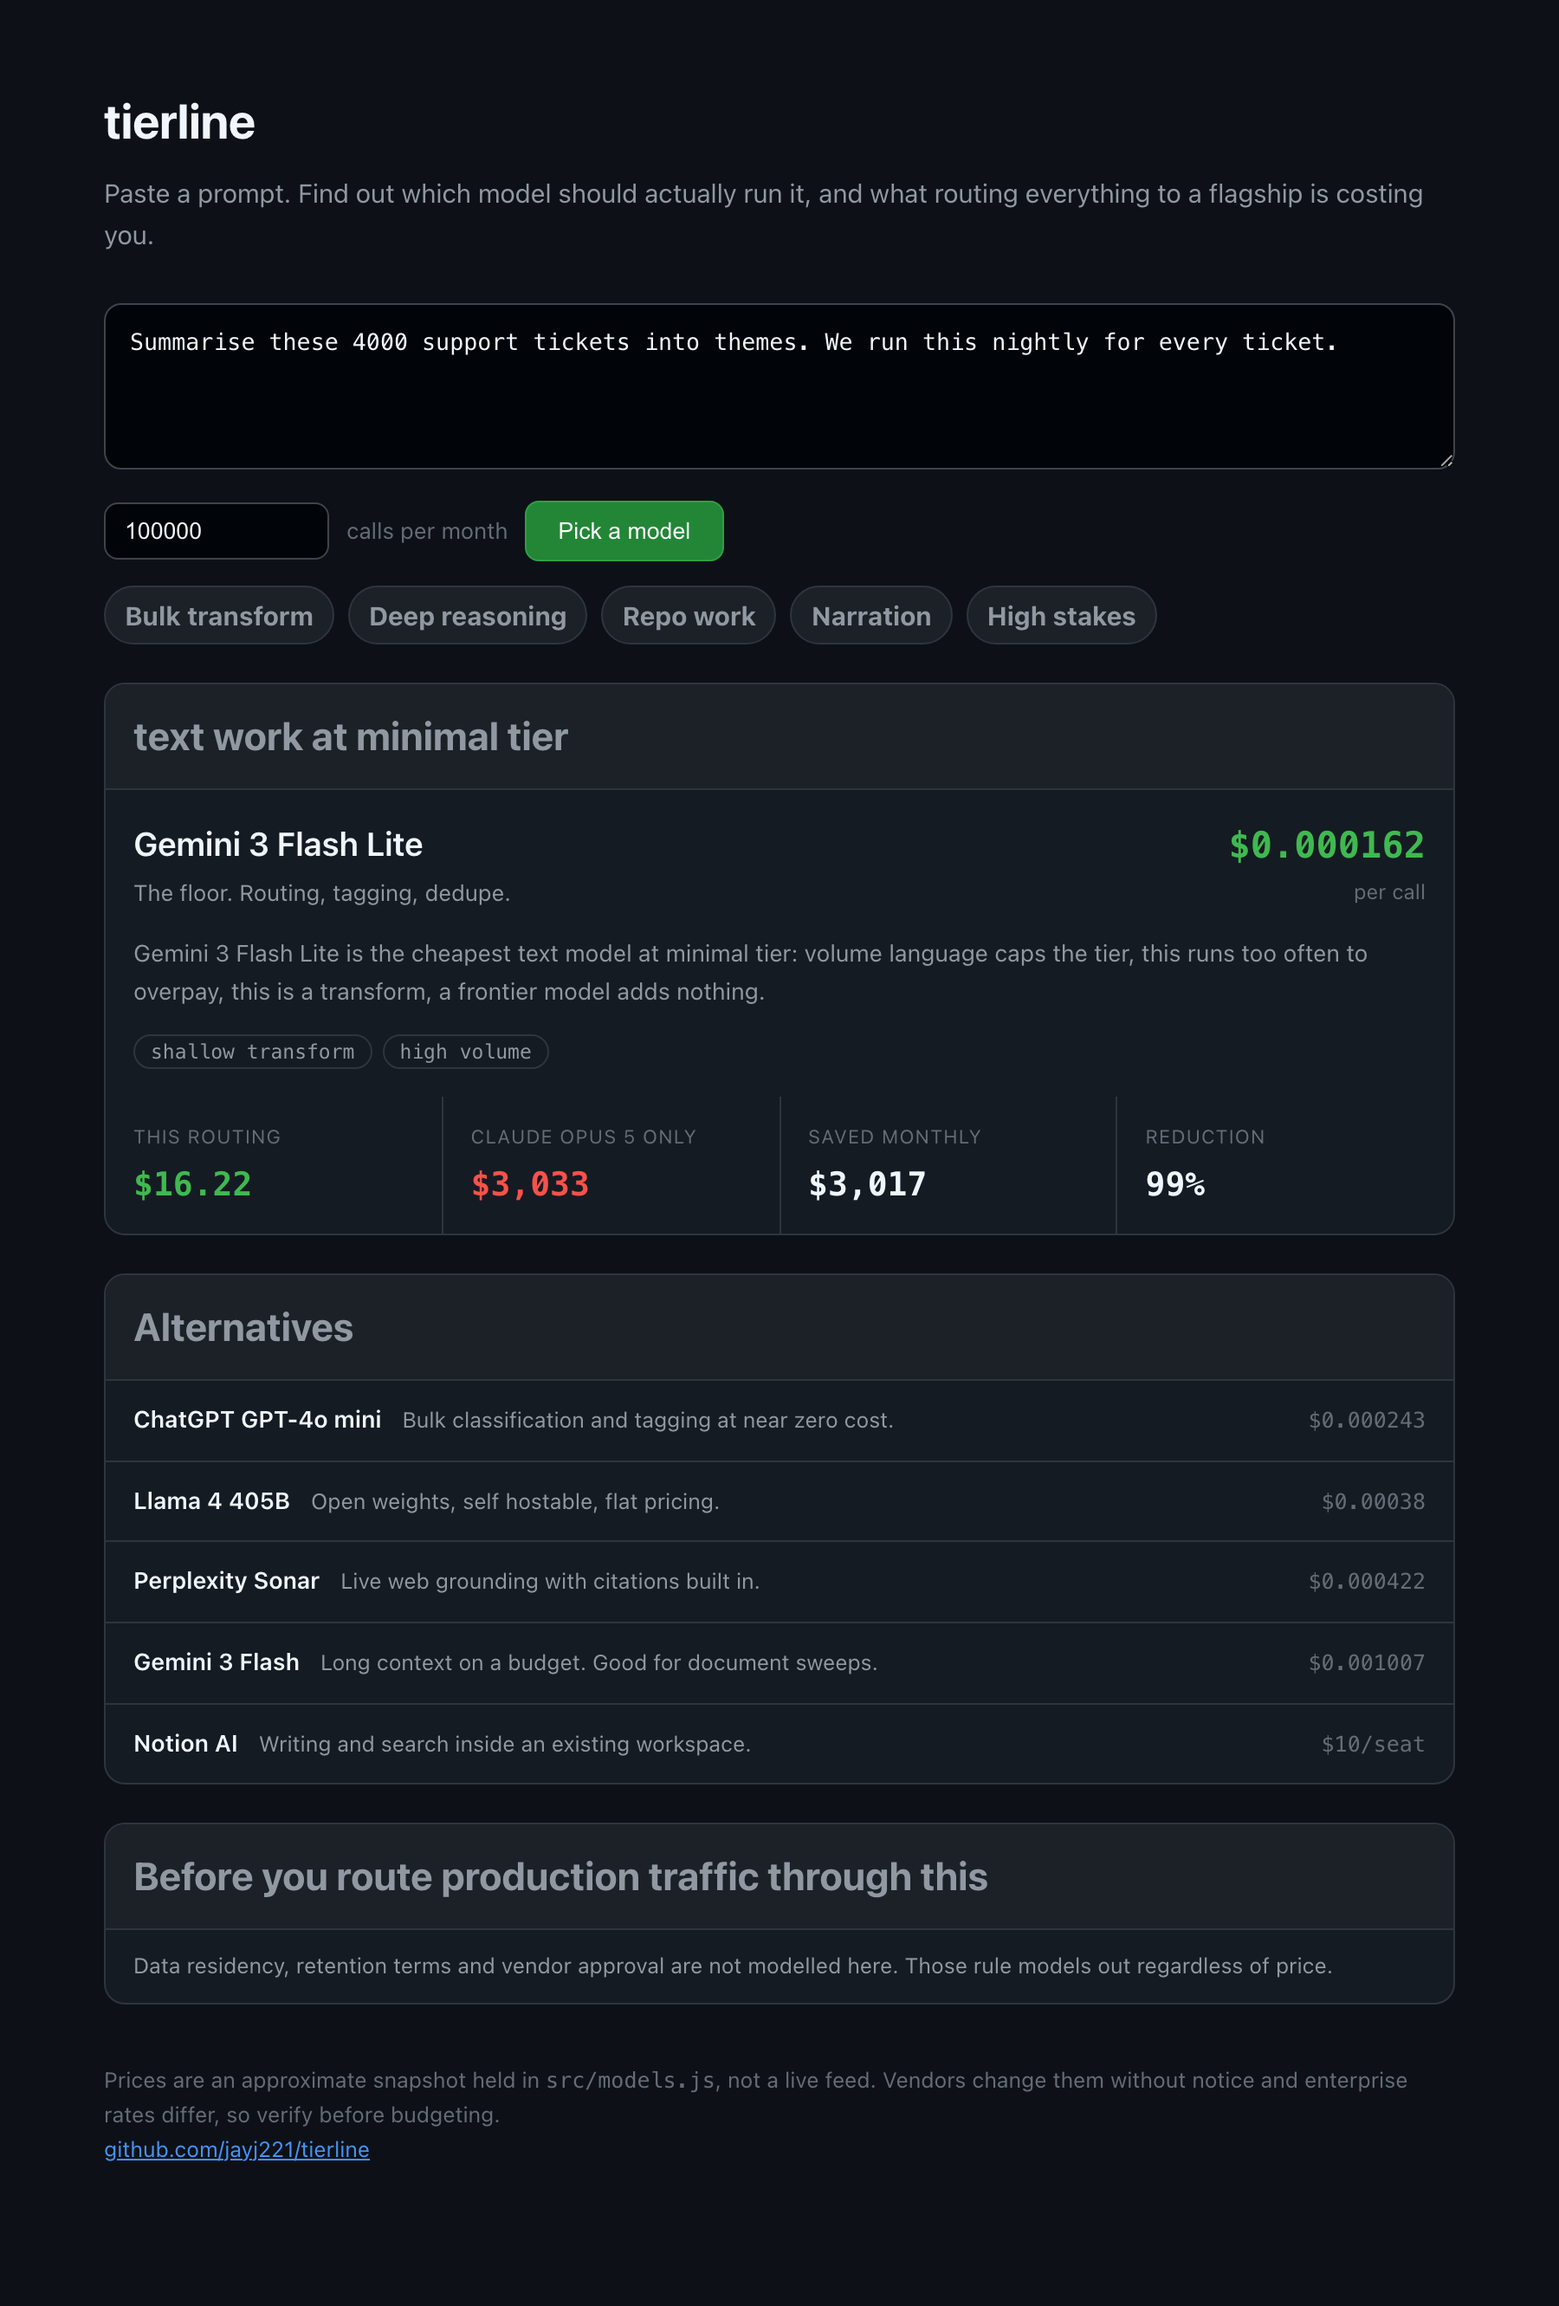
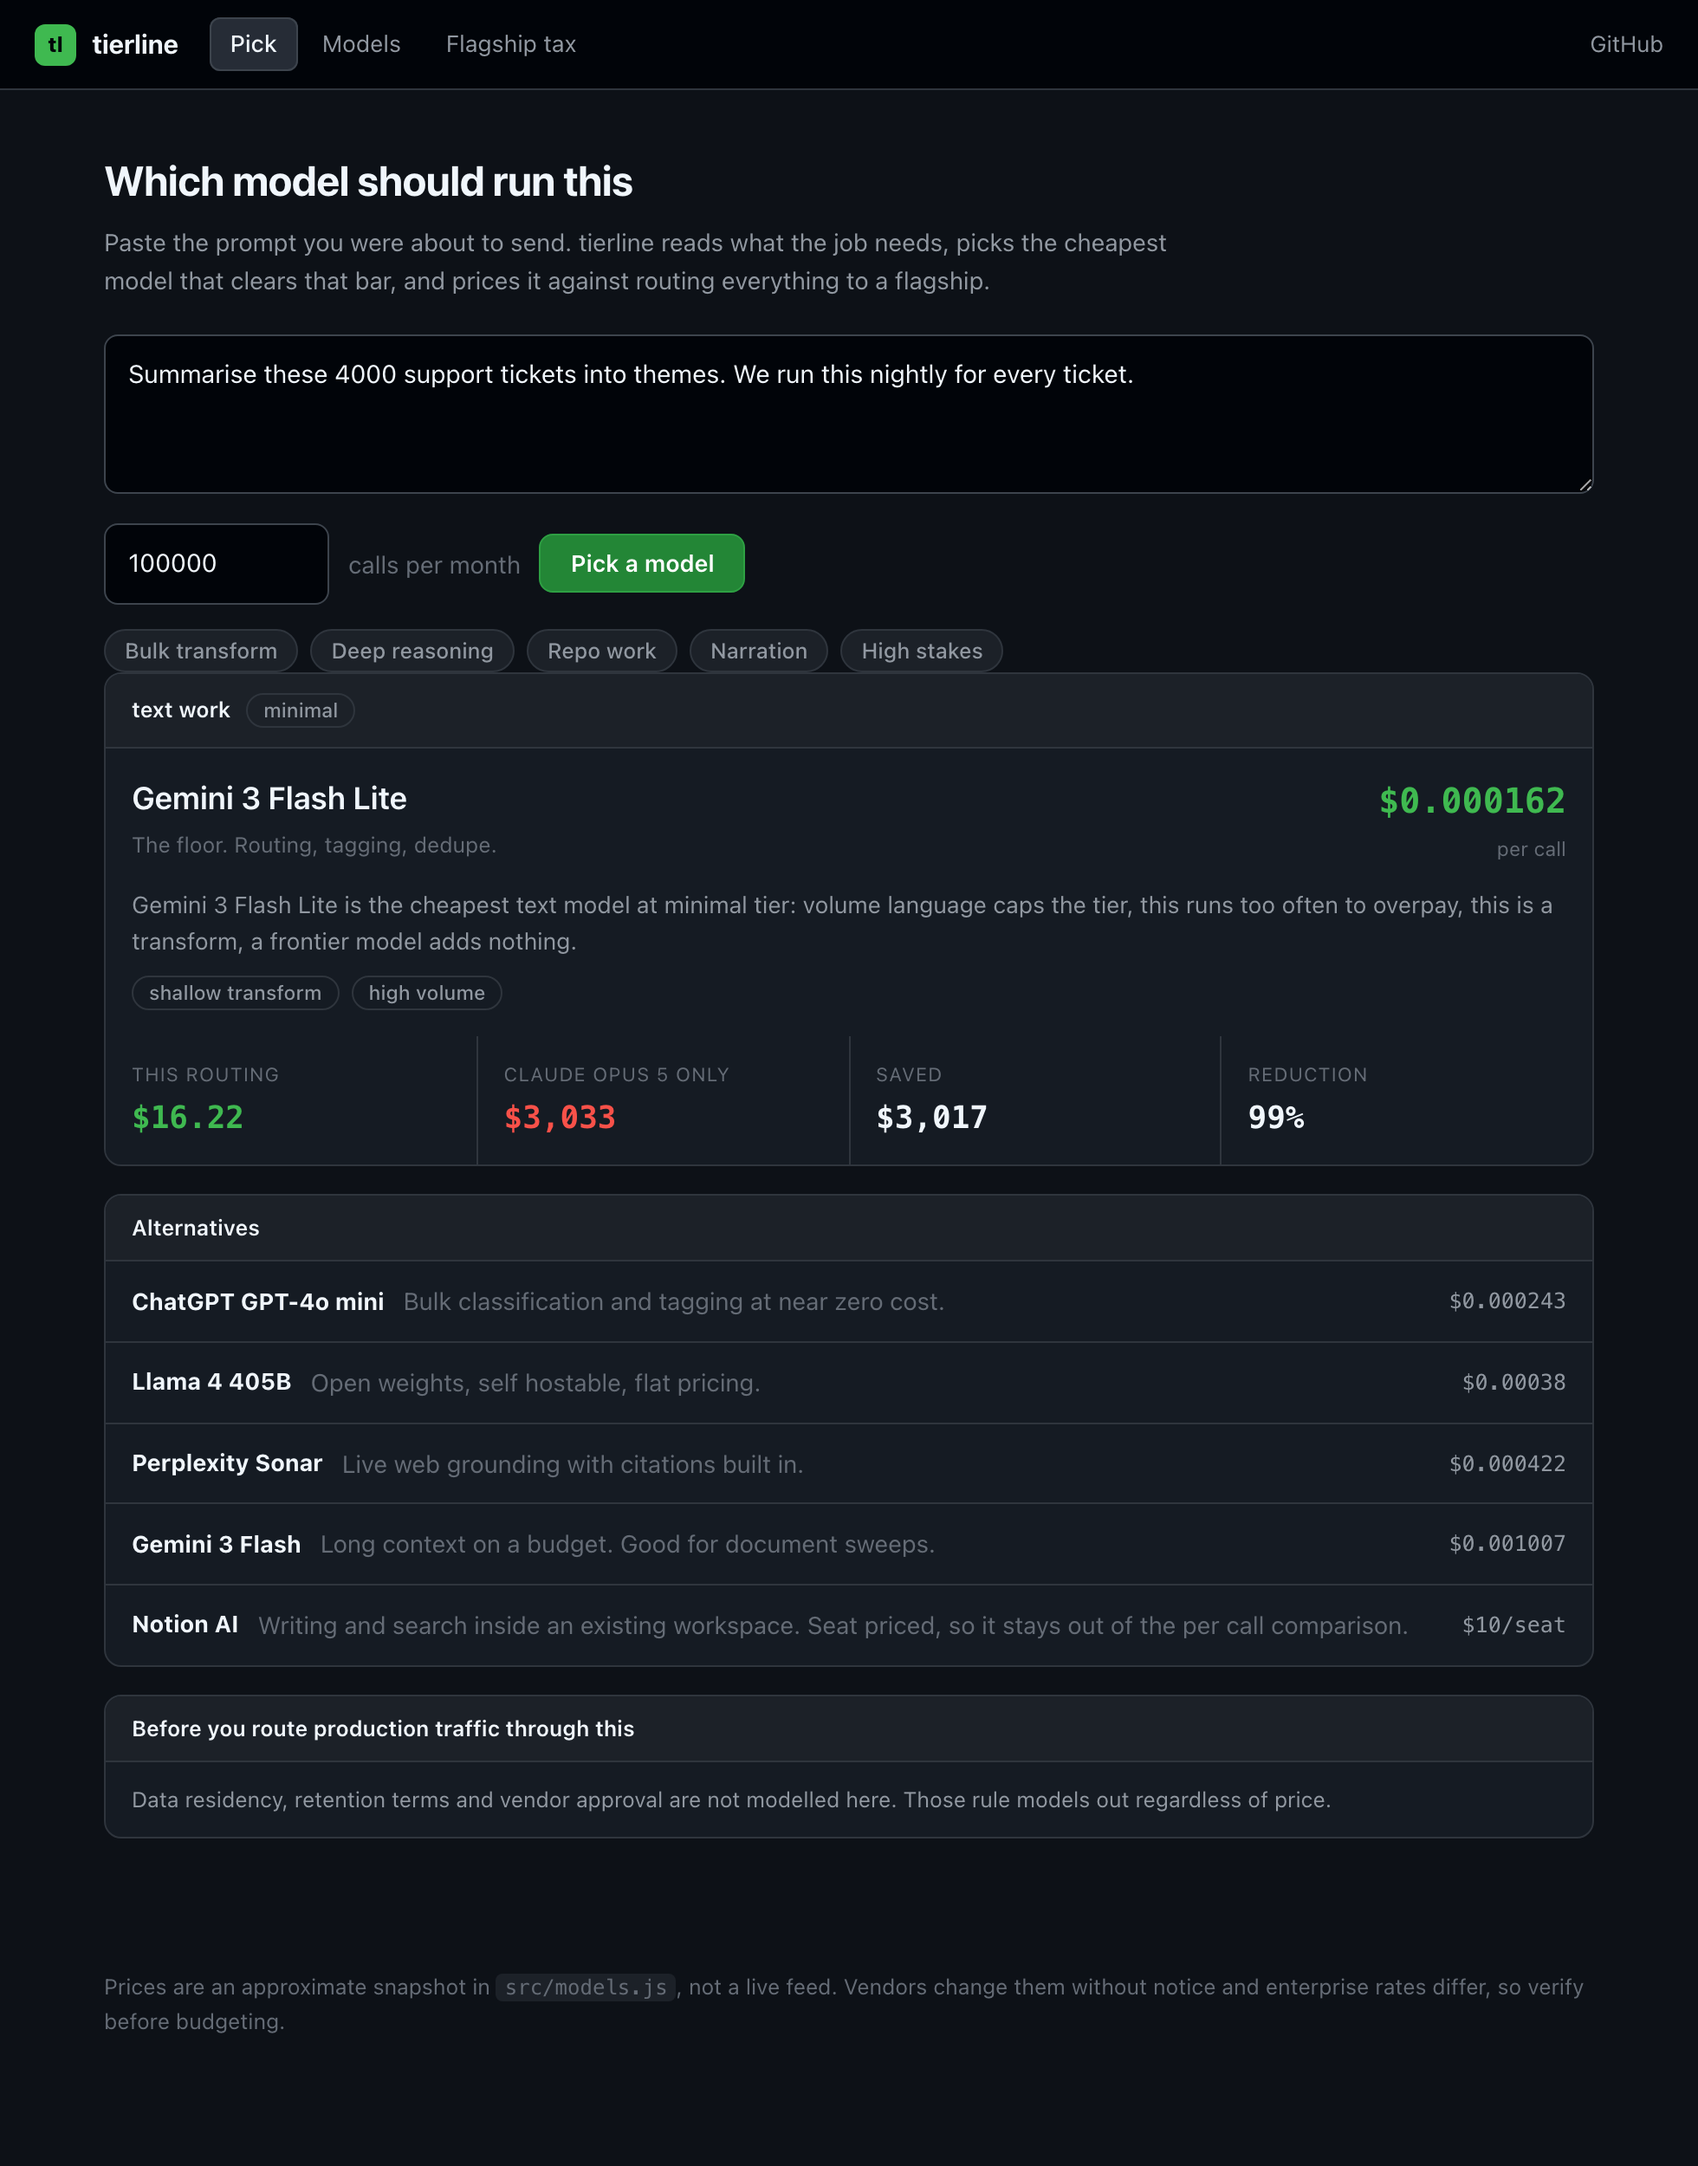
Add the browsable UI, catalogue, model pages and rankings
Three hash routed pages sharing one header, following the shape
OpenRouter uses because their information architecture is good and worth
borrowing.

Pick is the prompt box that was already there. Models is the catalogue
with search, modality and tier filters, each row linking to a detail
page that shows pricing, reach, the flagship tax for that model, and
anything cheaper that still clears the same tier. Flagship tax is the
rankings page.

The metric is where it stops being a copy. OpenRouter ranks by tokens
processed, which measures adoption. This ranks by what standardising on
a model costs against routing per task, which is the number a finance
team is actually asking for.

README carries the accuracy figures now, including the two prompts the
classifier still disagrees with and why they were left alone.

diff --git a/README.md b/README.md
@@ -24,7 +24,7 @@ $ npx tierline "summarise these 4000 support tickets into themes, we run this ni
 ```
 
 <div align="center">
-  <img src="docs/screenshot.png" alt="tierline picking a model for a bulk summarisation job" width="720">
+  <img src="docs/screenshot.png" alt="tierline picking a model for a bulk summarisation job" width="760">
 </div>
 
 Most teams pick one frontier model and send everything to it. That is the single most expensive habit in an AI budget, because the majority of production prompts are transforms that a model costing a hundredth as much would handle identically.
@@ -37,7 +37,7 @@ tierline reads the prompt, works out what the job actually needs, and names the 
 npx tierline "your prompt here"
 ```
 
-Or clone it and run the web UI:
+Or clone it for the web UI, which has the catalogue and the rankings:
 
 ```bash
 git clone https://github.com/jayj221/tierline.git
@@ -47,6 +47,32 @@ node server.js
 ```
 
 No dependencies, no build step, no API key. It never calls a model, it only decides which one you should call.
+
+## Flagship tax
+
+Adoption rankings tell you what everyone else is buying. This tells you what buying it costs.
+
+If you standardised on one model across the 39 task corpus, falling back where it cannot reach, here is the multiple of the optimal bill you would pay:
+
+| Model | Blended cost | Covers |
+| :--- | ---: | ---: |
+| Claude Opus 5 | 6.96x | 69% |
+| GPT-5.2 | 4.41x | 69% |
+| Claude Sonnet 5 | 1.32x | 51% |
+| Gemini 3 Pro | 1.20x | 74% |
+| DeepSeek V4 | 1.00x | 51% |
+
+Gemini 3 Pro reaches more of the corpus than Claude Opus 5 and costs a sixth as much to standardise on. That gap is the entire product.
+
+<div align="center">
+  <img src="docs/rankings.png" alt="flagship tax rankings" width="760">
+</div>
+
+## Browse the catalogue
+
+<div align="center">
+  <img src="docs/models.png" alt="model catalogue with modality and tier filters" width="760">
+</div>
 
 ## How the tier gets set
 
@@ -113,13 +139,32 @@ Inference proxies like OpenRouter Auto, RouteLLM and LiteLLM sit in the request 
 
 tierline is none of those. It runs before the call, spans modalities rather than just text LLMs, picks the tool as well as the tier, and projects the monthly bill against a flagship-for-everything baseline. The pieces exist separately. The combination did not.
 
+## Accuracy
+
+The classifier is scored against 39 labelled prompts in [`src/corpus.js`](src/corpus.js), weighted toward the awkward cases.
+
+```bash
+npm run eval
+```
+
+| | |
+| :--- | ---: |
+| Mode exact | 100% |
+| Tier exact | 95% |
+| Tier within one | 100% |
+
+The two disagreements are arguable rather than wrong: unit tests are a fair step above light, and an instrumental bed is arguably not standard work. They are left in rather than tuned away, because a corpus you edit until the number looks good measures nothing.
+
+CI fails if any prompt lands more than one tier from its label. One tier out costs money or quality, two is a real miss.
+
 ## Tests
 
 ```bash
-npm test
+npm test   # 30 assertions
+npm run eval
 ```
 
-24 assertions over classification, tier floors and ceilings, seat priced tools staying out of the per call ranking, monotonic scaling, and the catalogue being well formed.
+Classification, tier floors and ceilings, seat priced tools staying out of the per call ranking, monotonic scaling, catalogue integrity, and the ranking invariants.
 
 ## License
 
